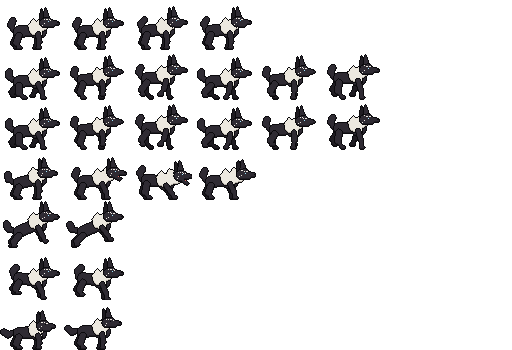
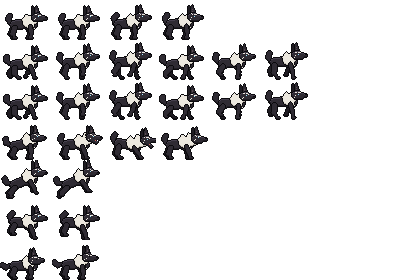
Mahoraga: Adapt to Anything 1.3.1
- Fix: a summoned Divine Dog bit itself to death. Allies are built on the
  game's base_enemy_basic.xml, which tags them "enemy", so the dog found
  itself as its closest target. mh_make_ally() now removes that tag from the
  dogs and the summoned Mahoraga (also on load) and sets
  dont_counter_attack_own_herd; bites and hunting skip itself and allies.
- Fix: the summoned Mahoraga killed the Divine Dogs (they bit him as an
  "enemy" and he fought back); his targeting now skips all allies.
- Smaller, nicer Divine Dogs drawn in Aseprite (live): 32x26 frames (Totality
  52x40), lit from above, softer outline on the white dog, inner ears and a
  chest tuft; hitboxes resized.
- Escape mode: Mahoraga now needs 10 minutes to reach the start.

Changed region(s): [[0.0, 0.0, 0.75, 0.7143], [0.0, 0.7143, 0.25, 1.0]]

diff --git a/README.md b/README.md
@@ -3,7 +3,7 @@
 A Mahoraga-inspired boss (8000 HP) waits in a temple arena at the far east edge of every Noita world. He adapts to every kind of harm (even drowning). Each adaptation heals him to full and doubles his health and damage, and some of them teach him new techniques: Giant Slash, Giant Napalm, Giant Nuke, Electrocute Giant Punch, Holy Shower and World Cutting Slash. Beat him for two perks: **Adapt to Anything**, and **Summon Mahoraga**, which calls your own Mahoraga (sharing your adaptations) with a key you pick in Options > Mod settings. New in 1.3: the **Escape from Mahoraga** mode (he digs his way to you from the start of the run), the **Divine Dogs** perk (white dog, then both dogs, then Totality as they kill), and new adaptations: Omega Black Hole (curses), Earthquake (impacts), energy shields (projectiles) and swimming (drowning).
 
 - Steam Workshop: https://steamcommunity.com/sharedfiles/filedetails/?id=3820434703
-- Current version: 1.3.0
+- Current version: 1.3.1
 
 ## Layout
 | Folder | What it is |

diff --git a/art/README.md b/art/README.md
@@ -7,5 +7,5 @@ The sprites are drawn by Lua scripts run in Aseprite's batch mode, which also sa
 ```
 
 - `mahoraga/`: Mahoraga (64x56 frames; layout in `tools/gen.ps1` `$bossAnims`). Export goes to `mod/mahoraga/files/gfx/mahoraga.png`.
-- `cao_divino/`: the Divine Dogs (white and black 40x32, Totality 64x50, with their sprite XMLs), the perk icons,
+- `cao_divino/`: the Divine Dogs (white and black 32x26, Totality 52x40, with their sprite XMLs), the perk icons,
   the earthquake crack and the electric punch burst. Copy the outputs to `mod/mahoraga/files/gfx/`.
